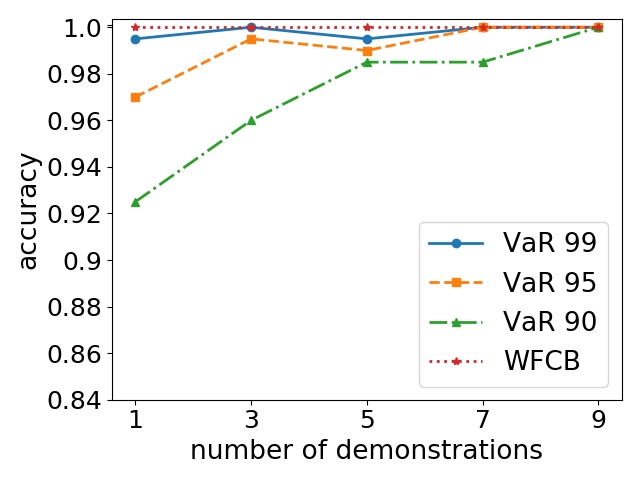
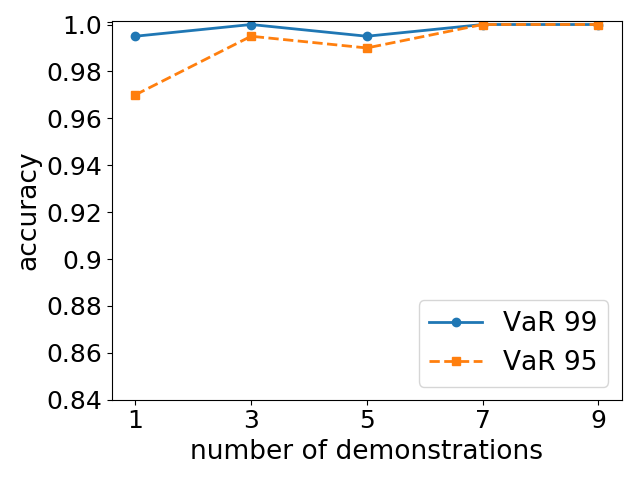
script for table

diff --git a/scripts/bound_methods.py b/scripts/bound_methods.py
@@ -21,170 +21,8 @@ def percentile(sample_data, p):
         idx = np.floor(len(data_sorted) * p)
     return data_sorted[idx]
     
-
-def bootstrap_confidence(sample_data, delta_conf, num_bootstrap):
-    """Returns a 1-delta confidence bound on range of mean
-       delta_confidence is actual confidence not 1-, e.g. delta_conf = 95%
-    """
-    
-    sample_mean = np.nanmean(sample_data)
-    #print "sample mean", sample_mean
-    num_to_sample = len(sample_data)
-    bootstrap_means = np.array([np.nanmean(np.random.choice(sample_data, num_to_sample, 
-                                replace=True)) for i in range(num_bootstrap)])
-    bootstrap_diffs = bootstrap_means - sample_mean
-    sorted_diffs = np.sort(bootstrap_diffs)
-    #print sorted_diffs
-    #find index of 2.5 percentile and 97.5 percentile
-    lower_bnd_indx = max(int(np.floor((1 - delta_conf) / 2.0 * num_bootstrap)) - 1,0)
-    #print "lower index", lower_bnd_indx
-    #print "lower bound diff", sorted_diffs[lower_bnd_indx]
-    upper_bnd_indx = int(np.ceil((delta_conf + (1 - delta_conf) / 2.0) * num_bootstrap)) - 1
-    #print "upper index", upper_bnd_indx
-    #print "upper bound diff", sorted_diffs[upper_bnd_indx]
-    lower_bnd = sample_mean - sorted_diffs[upper_bnd_indx]
-    upper_bnd = sample_mean - sorted_diffs[lower_bnd_indx]
-    #print "95\% conf bound", (lower_bnd, upper_bnd)
-    return lower_bnd, upper_bnd
-####!!!!!!!!!!!!!!! I think there is a bug in my code where I should be subtracting one from bounds in conf_bounds.py
-
-def bootstrap_empirical_confidence_upper(sample_data, delta_conf, num_bootstrap):
-    """Returns a 1-delta confidence bound on range of mean"""
-    sample_mean = np.nanmean(sample_data)
-    #print "sample mean", sample_mean
-    num_to_sample = len(sample_data)
-    bootstrap_means = np.array([np.nanmean(np.random.choice(sample_data, num_to_sample, 
-                                replace=True)) for i in range(num_bootstrap)])
-    bootstrap_diffs = bootstrap_means - sample_mean
-    sorted_diffs = np.sort(bootstrap_diffs)
-    #print sorted_diffs
-    #find index of 2.5 percentile and 97.5 percentile
-    lower_bnd_indx = max(int(np.floor((1 - delta_conf) * num_bootstrap)) - 1,0)
-    #print "lower index", lower_bnd_indx
-    #print "lower bound diff", sorted_diffs[lower_bnd_indx]
-    upper_bnd = sample_mean - sorted_diffs[lower_bnd_indx]
-    #print "95\% conf bound", upper_bnd
-    return upper_bnd
-
-def bootstrap_percentile_confidence_upper(sample_data, delta_conf, num_bootstrap):
-    """Returns a 1-delta confidence bound on range of mean"""
-    #sample_mean = np.mean(sample_data)
-    #print "sample mean", sample_mean
-    num_to_sample = len(sample_data)
-    bootstrap_means = np.array([np.nanmean(np.random.choice(sample_data, num_to_sample, 
-                                replace=True)) for _ in range(num_bootstrap)])
-    data_descending = np.sort(bootstrap_means)[::-1]
-    #print "sorted", data_descending
-    upper_bnd_indx = int(np.floor((1-delta_conf) * num_bootstrap))
-    return data_descending[upper_bnd_indx] 
-    
-def value_at_risk(sample_data, delta_conf):
-    data_descending = np.sort(sample_data)[::-1]
-    #print "sorted", data_descending
-    upper_bnd_indx = int(np.floor((1-delta_conf) * len(sample_data)))
-    return data_descending[upper_bnd_indx] 
-
-def phil_lower_bnd(sample_data, delta_conf, c):
-    N = float(len(sample_data))
-    #print "N", N
-    delta = 1 - delta_conf
-    #print "delta", delta
-    #trucate data
-    #print "sample data", sample_data
-    sample_data_trunc = np.array([min(s,c) for s in sample_data])
-    #print "truncated data", sample_data_trunc
-    #print sample_data_trunc / c
-    #print (sample_data_trunc / c )  ** 2
-    lower_bnd = (c / N) * (np.nansum(sample_data_trunc / c) 
-            - (7.0*N*np.log(2.0/delta))/(3.0*(N-1.0)) 
-            - np.sqrt( ((2.0*np.log(2.0/delta))/(N-1.0)) 
-            * (N * np.nansum( (sample_data_trunc / c) ** 2) 
-            - (np.nansum(sample_data_trunc / c)) ** 2) ))
-    return lower_bnd
-    
-def phil_upper_bnd(sample_data, delta_conf, c):
-    N = float(len(sample_data))
-    #print "N", N
-    delta = 1 - delta_conf
-    #print "delta", delta
-    #trucate data
-    #print "sample data", sample_data
-    sample_data_trunc = np.array([min(s,c) for s in sample_data])
-    #print "truncated data", sample_data_trunc
-    #print sample_data_trunc / c
-    #print (sample_data_trunc / c )  ** 2
-    upper_bnd = (c / N) * (np.nansum(sample_data_trunc / c) 
-            + (7.0*N*np.log(2.0/delta))/(3.0*(N-1.0)) 
-            + np.sqrt( ((2.0*np.log(2.0/delta))/(N-1.0)) 
-            * (N * np.nansum( (sample_data_trunc / c) ** 2) 
-            - (np.nansum(sample_data_trunc / c)) ** 2) ))
-    return upper_bnd
-
-def empirical_bernstein_bnd(sample_data, delta_conf, b):
-    N = float(len(sample_data))
-    #print "N", N
-    delta = 1 - delta_conf
-    upper_bnd = np.nanmean(sample_data) \
-            + (7.0*b*np.log(2.0/delta))/(3.0*(N-1.0))  \
-            + 1.0/N * np.sqrt( ((2.0*np.log(2.0/delta))/(N-1.0)) 
-            * (N * np.nansum( np.array(sample_data) ** 2) - np.nansum(sample_data) ** 2) )
-    return upper_bnd
-
-#TODO dont' think this is right. Shouldn't add to largest...
-def anderson_bnd(sample_data, delta_conf):
-    N = float(len(sample_data))
-    delta = 1 - delta_conf
-    order_stats = np.sort(sample_data)
-    upper_bnd = order_stats[-1]
-    #print "upper bound cumsum", upper_bnd    
-    #add the i=0 term
-    upper_bnd += order_stats[0] * min(1.0, np.sqrt(np.log(2.0/delta)/(2.0 * N)))
-    #print "upper bound cumsum", upper_bnd
-    for i in range(0,len(sample_data)-1):
-        temp = (order_stats[i+1] - order_stats[i]) * min(1.0, (i+1)/N + np.sqrt(np.log(2.0/delta)/(2.0 * N)))
-        #print temp
-        upper_bnd += temp
-        #print "upper bound cumsum", upper_bnd
-    return upper_bnd
-
-def anderson_lower_bnd(sample_data, delta_conf):
-    N = float(len(sample_data))
-    delta = 1 - delta_conf
-    order_stats = np.sort(sample_data)
-    upper_bnd = order_stats[-1]
-    #print "upper bound cumsum", upper_bnd    
-    #add the i=0 term
-    upper_bnd -= order_stats[0] * min(1.0, np.sqrt(np.log(2.0/delta)/(2.0 * N)))
-    #print "upper bound cumsum", upper_bnd
-    for i in range(0,len(sample_data)-1):
-        temp = (order_stats[i+1] - order_stats[i]) * min(1.0, (i+1)/N + np.sqrt(np.log(2.0/delta)/(2.0 * N)))
-        #print temp
-        upper_bnd -= temp
-        #print "upper bound cumsum", upper_bnd
-    return upper_bnd
-
-    
-def ttest_upper_bnd(sample_data, delta_conf):
-    #compute mean and sample stdev
-    m = len(sample_data)
-    sample_mean = np.nanmean(sample_data)
-    sample_std =  np.nanstd(sample_data, ddof=1)
-    #if sample_mean > 10000:
-    #    print "why"
-    #print "sample mean", sample_mean
-    #print "sample_std", sample_std
-    t_val = stats.t.ppf(delta_conf, m - 1)
-    return sample_mean + sample_std / np.sqrt(m) * t_val
-
-def chernoff_hoeffding_upper_bnd(sample_data, delta_conf, b):
-    n = len(sample_data)
-    delta = 1 - delta_conf
-    sample_mean = np.nanmean(sample_data)
-    return sample_mean + b * np.sqrt(np.log(1/delta)/(2*n))
-    
-def abbeel_bound(num_features, gamma, delta, num_demos):
-    eps = 2.0 * np.sqrt(num_features) / (1.0-gamma) * np.sqrt(-1.0 / (2.0 * num_demos) * np.log(delta / 2.0 * num_features) )
-    return eps
+def syed_schapire_bound(m, gamma, k, delta):
+    return 3.0/(1.0-gamma) * np.sqrt(2.0/m * np.log(2.0*k/delta))
     
 def percentile_confidence_upper_bnd(sample_data, percentile, delta_conf):
     """percentile should be a decimal, e.g. 75th percentile is 0.75, delta confidence is the true confidence, e.g. 0.95"""

diff --git a/scripts/generateProjectionEvalData.py b/scripts/generateProjectionEvalData.py
@@ -1,0 +1,105 @@
+import numpy as np
+import matplotlib.pyplot as plt
+import bound_methods
+from numpy import nan, inf
+
+#plot results for experiment4_1
+#rewards are feasible in that all start states end up at goal within 25 steps
+
+sample_flag = 4
+chain_length = 10000
+step = 0.01
+alpha = 100
+size = 9
+num_reps = 200
+rolloutLength = 100
+numDemos = [1,5,9]
+tol = 0.0001
+gamma = 0.95
+burn = 100 #TODO play with this
+skip = 20
+stochastic = 1
+delta_conf = 0.95
+bounds = ["VaR 95", "VaR 99"]
+bound_dict = {}
+
+filePath = "./data/abbeel_projection/"
+
+
+for bound_type in bounds:
+    accuracies = []
+    average_bound = []
+    for numDemo in numDemos:  
+        predicted = []
+        bound_error = []  
+        true_perf_ratio = []
+        #print("=========", numDemo, "=========")
+        for rep in range(num_reps):
+            filename = "ProjectionEval_numdemos" +  str(numDemo) + "_alpha" + str(alpha) + "_chain" + str(chain_length) +  "_step" + str(step) + "0000_L1sampleflag" + str(sample_flag) +  "_rolloutLength" + str(rolloutLength) +  "_stochastic" + str(stochastic) + "_rep" + str(rep)+ ".txt"
+                
+            f = open(filePath + filename,'r')   
+            f.readline()                                #clear out comment from buffer
+            actual = (float(f.readline())) #get the true ratio 
+            #print "actual", actual
+            f.readline()                                #clear out ---
+            wfcb = (float(f.readline())) #get the worst-case feature count bound
+            f.readline()  #clear out ---
+            samples = []
+            for line in f:                              #read in the mcmc chain
+                val = float(line)                       
+                samples.append(float(line))
+            #print samples
+            #burn 
+            burned_samples = samples[burn::skip]
+            #print "max sample", np.max(burned_samples)
+            #compute confidence bound
+            if bound_type == "VaR 99":
+                upper_bnd = bound_methods.percentile_confidence_upper_bnd(burned_samples, 0.99, delta_conf)
+            elif bound_type == "VaR 95":
+                upper_bnd = bound_methods.percentile_confidence_upper_bnd(burned_samples, 0.95, delta_conf)
+
+                
+            
+            
+            
+            #print "upper bound", upper_bnd
+            predicted.append(upper_bnd)
+            true_perf_ratio.append(actual)
+            bound_error.append(upper_bnd - actual)
+        accuracy = 0.0
+        for i in range(len(predicted)):
+            if (predicted[i] >= true_perf_ratio[i]) or np.abs(predicted[i] - true_perf_ratio[i]) < tol:
+                accuracy += 1.0
+        accuracy = accuracy / len(predicted)
+     
+        accuracies.append(accuracy)
+        average_bound.append(np.mean(predicted))
+    bound_dict[bound_type] = average_bound
+    print(bound_type)
+    print("over", numDemos, "demos")
+    print("bound", average_bound)
+    print("ave accuracy", np.mean(accuracies))
+
+#figure out Syed and Schapire theoretical bounds to compare against
+VaR95_bound = bound_dict["VaR 95"][0]
+syed_bounds = []
+k = 8 #num_features
+
+
+for ndemo in numDemos:
+    syed_bounds.append(bound_methods.syed_schapire_bound(ndemo, gamma, k, delta_conf))
+
+#calculate Syed and Schapire bound to match our bound with 1 demo
+m = 0
+eps = 100000
+while(eps > VaR95_bound):
+    m = m + 1
+    #print("count", m)
+    eps = bound_methods.syed_schapire_bound(m, gamma, k, delta_conf)
+    #print('syed', eps1)
+syed_bounds.append(eps)
+numDemos.append(m)
+print("Syed and Schapire")
+print("over", numDemos, "demos")
+print("bound", syed_bounds)
+

diff --git a/scripts/generateGridWorldBasicPlots.py b/scripts/generateGridWorldBasicPlots.py
@@ -55,9 +55,7 @@ for bound_type in bounds:
             burned_samples = samples[burn::skip]
             #print "max sample", np.max(burned_samples)
             #compute confidence bound
-            if bound_type == "VAR":
-                upper_bnd = bound_methods.value_at_risk(burned_samples, delta_conf)
-            elif bound_type == "VaR 99":
+            if bound_type == "VaR 99":
                 upper_bnd = bound_methods.percentile_confidence_upper_bnd(burned_samples, 0.99, delta_conf)
             elif bound_type == "VaR 95":
                 upper_bnd = bound_methods.percentile_confidence_upper_bnd(burned_samples, 0.95, delta_conf)

diff --git a/scripts/generateNoisyDemoPlots.py b/scripts/generateNoisyDemoPlots.py
@@ -65,9 +65,7 @@ for numDemo in numDemos:
         burned_samples = samples[burn::skip]
         #print "max sample", np.max(burned_samples)
         #compute confidence bound
-        if bound_type == "VAR":
-            upper_bnd = bound_methods.value_at_risk(burned_samples, delta_conf)
-        elif bound_type == "VaR 99":
+        if bound_type == "VaR 99":
             upper_bnd = bound_methods.percentile_confidence_upper_bnd(burned_samples, 0.99, delta_conf)
         elif bound_type == "VaR 95":
             upper_bnd = bound_methods.percentile_confidence_upper_bnd(burned_samples, 0.95, delta_conf)
